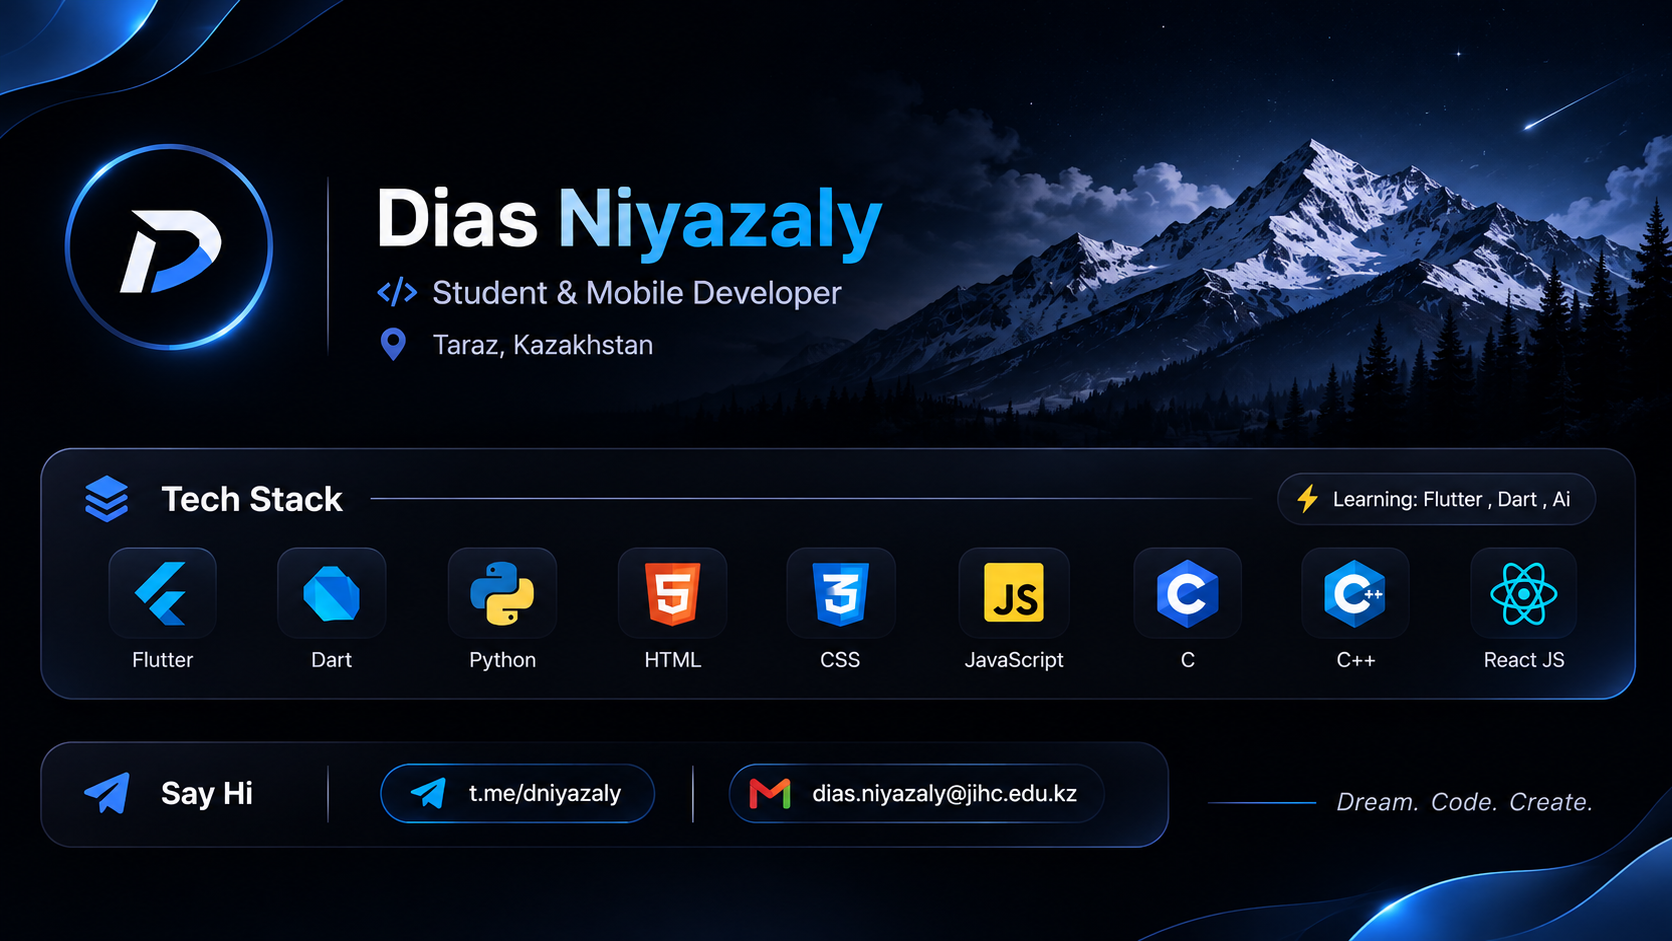
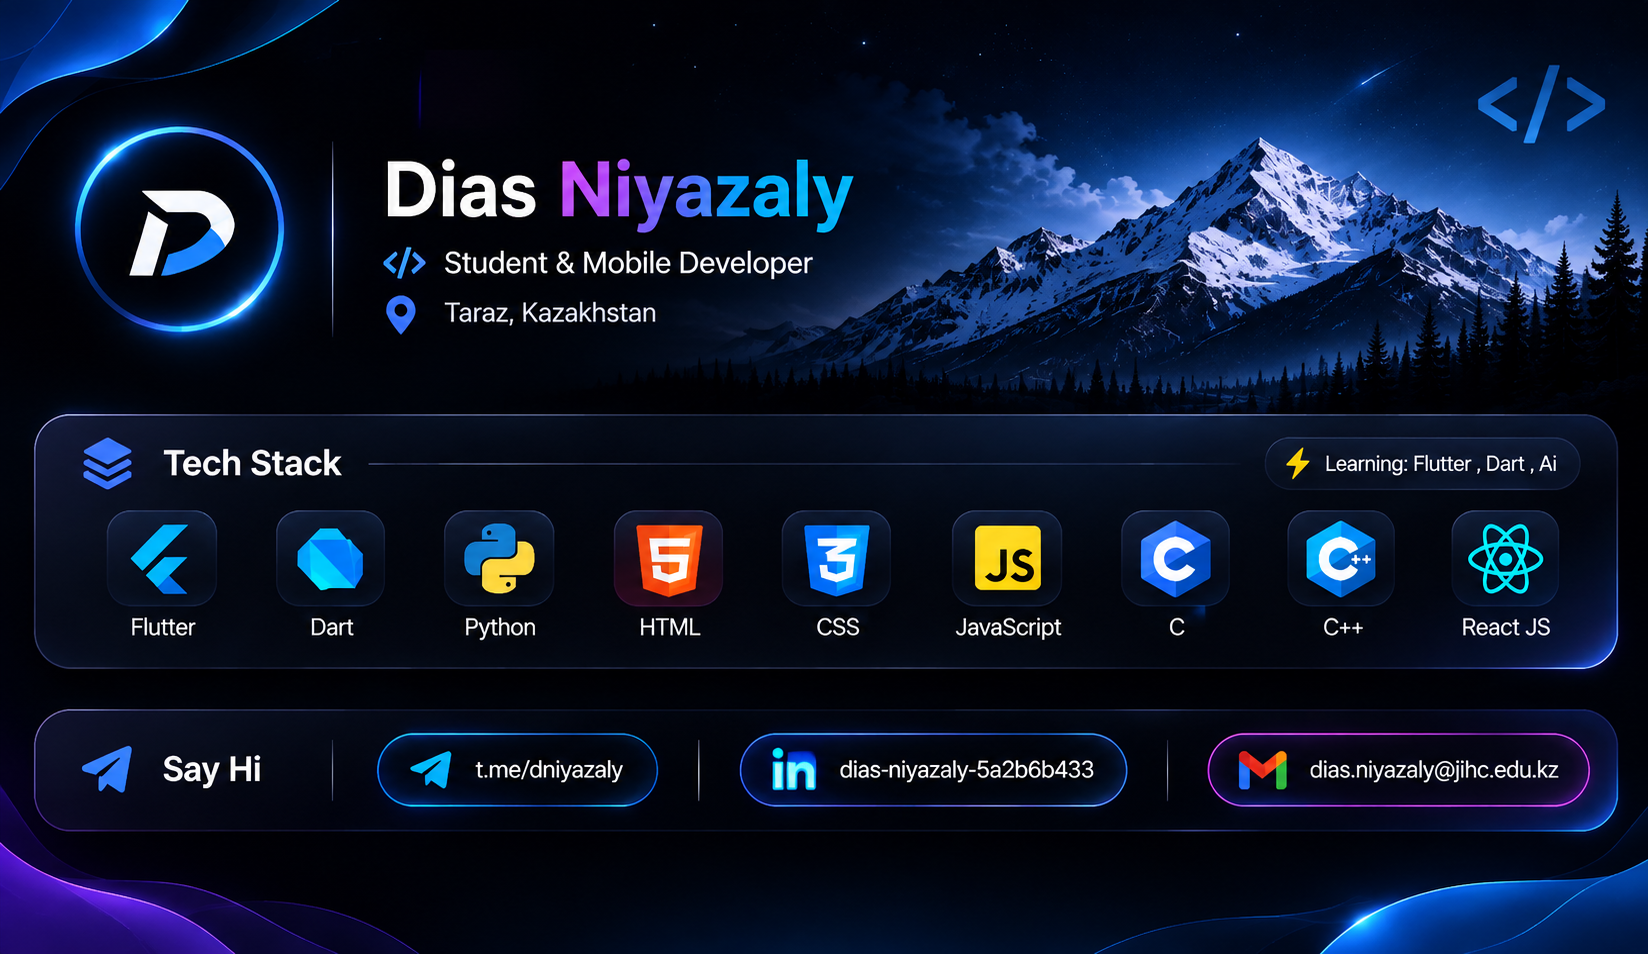
Add files via upload

diff --git a/README.md b/README.md
@@ -1,28 +1,9 @@
 <div align="center">
-  <img src="./assets/banner.png" alt="Dias Niyazaly — Student & Mobile Developer" width="100%" />
+
+<img src="./assets/banner.png" alt="Dias Niyazaly — Student & Mobile Developer | Tech Stack and Contact" width="100%" />
+
+[![Telegram](https://img.shields.io/badge/Telegram-@dniyazaly-26A5E4?style=flat-square&logo=telegram&logoColor=white)](https://t.me/dniyazaly)
+[![LinkedIn](https://img.shields.io/badge/LinkedIn-Dias_Niyazaly-0A66C2?style=flat-square&logo=linkedin&logoColor=white)](https://www.linkedin.com/in/dias-niyazaly-5a2b6b433/)
+[![Gmail](https://img.shields.io/badge/Gmail-Email-EA4335?style=flat-square&logo=gmail&logoColor=white)](mailto:dias.niyazaly@jihc.edu.kz)
+
 </div>
-
-<h2 align="center">Tech Stack</h2>
-
-<div align="center">
-  <img src="https://skillicons.dev/icons?i=flutter,dart,python,html,css,js,c,cpp,react" alt="Tech stack: Flutter, Dart, Python, HTML, CSS, JavaScript, C, C++, React" />
-</div>
-
-<h3 align="center">Currently Learning</h3>
-
-<p align="center">
-  Flutter · Dart · AI
-</p>
-
-<h2 align="center">Connect with Me</h2>
-
-<p align="center">
-  <a href="https://t.me/dniyazaly">
-    <img src="https://img.shields.io/badge/Telegram-Connect-2CA5E0?style=for-the-badge&logo=telegram&logoColor=white" alt="Telegram" />
-  </a>
-  <a href="mailto:dias.niyazaly@jihc.edu.kz">
-    <img src="https://img.shields.io/badge/Email-Contact-D14836?style=for-the-badge&logo=gmail&logoColor=white" alt="Email" />
-  </a>
-</p>
-
-<p align="center"><i>Dream. Code. Create.</i></p>
